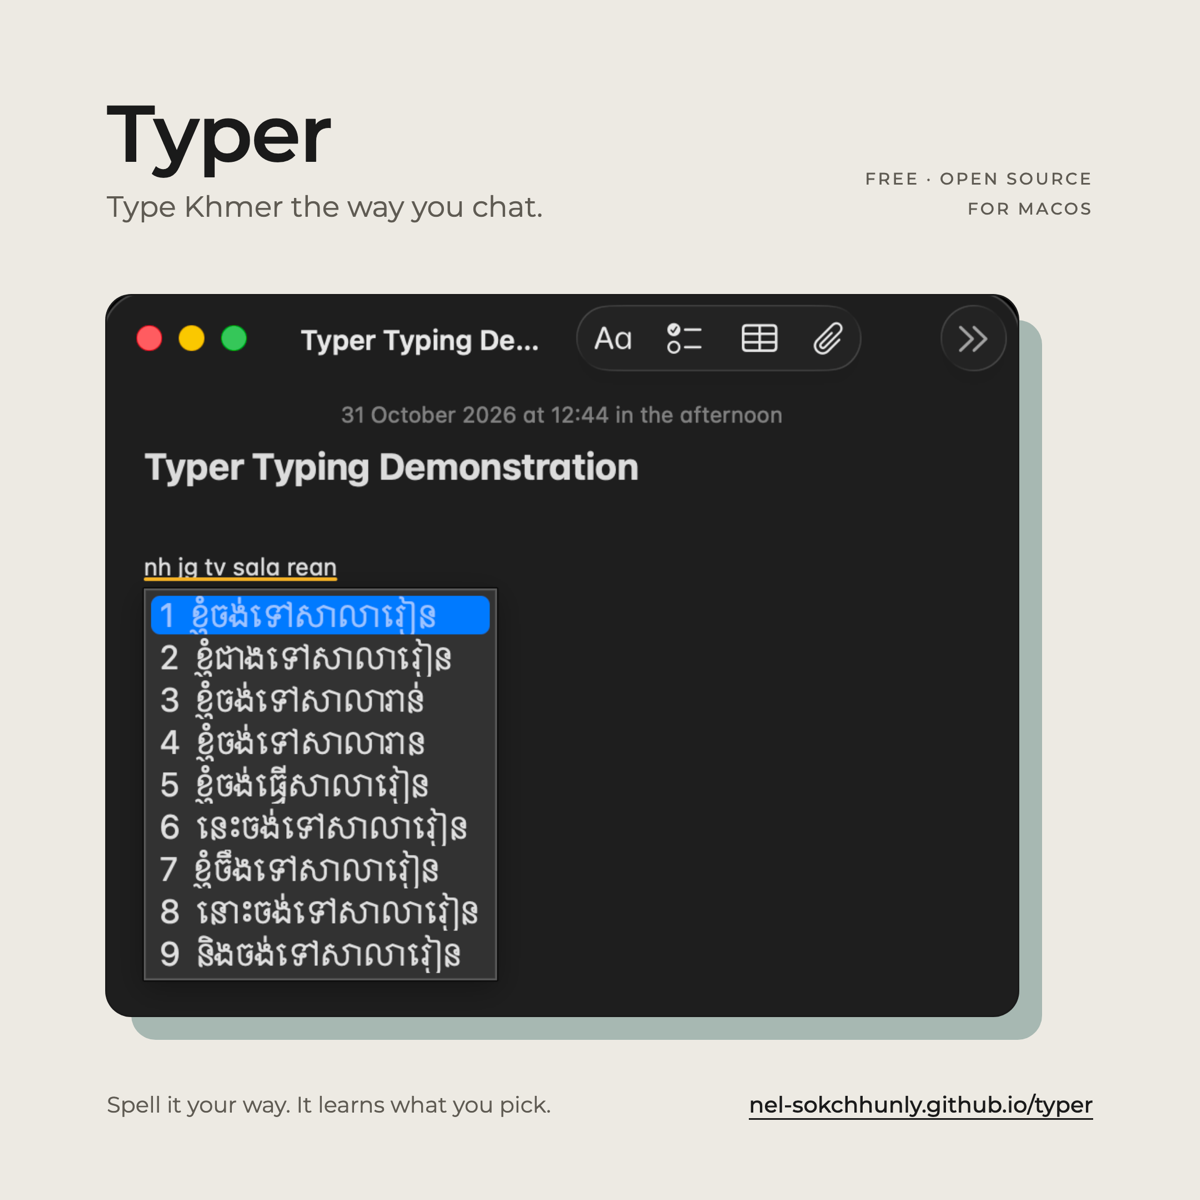
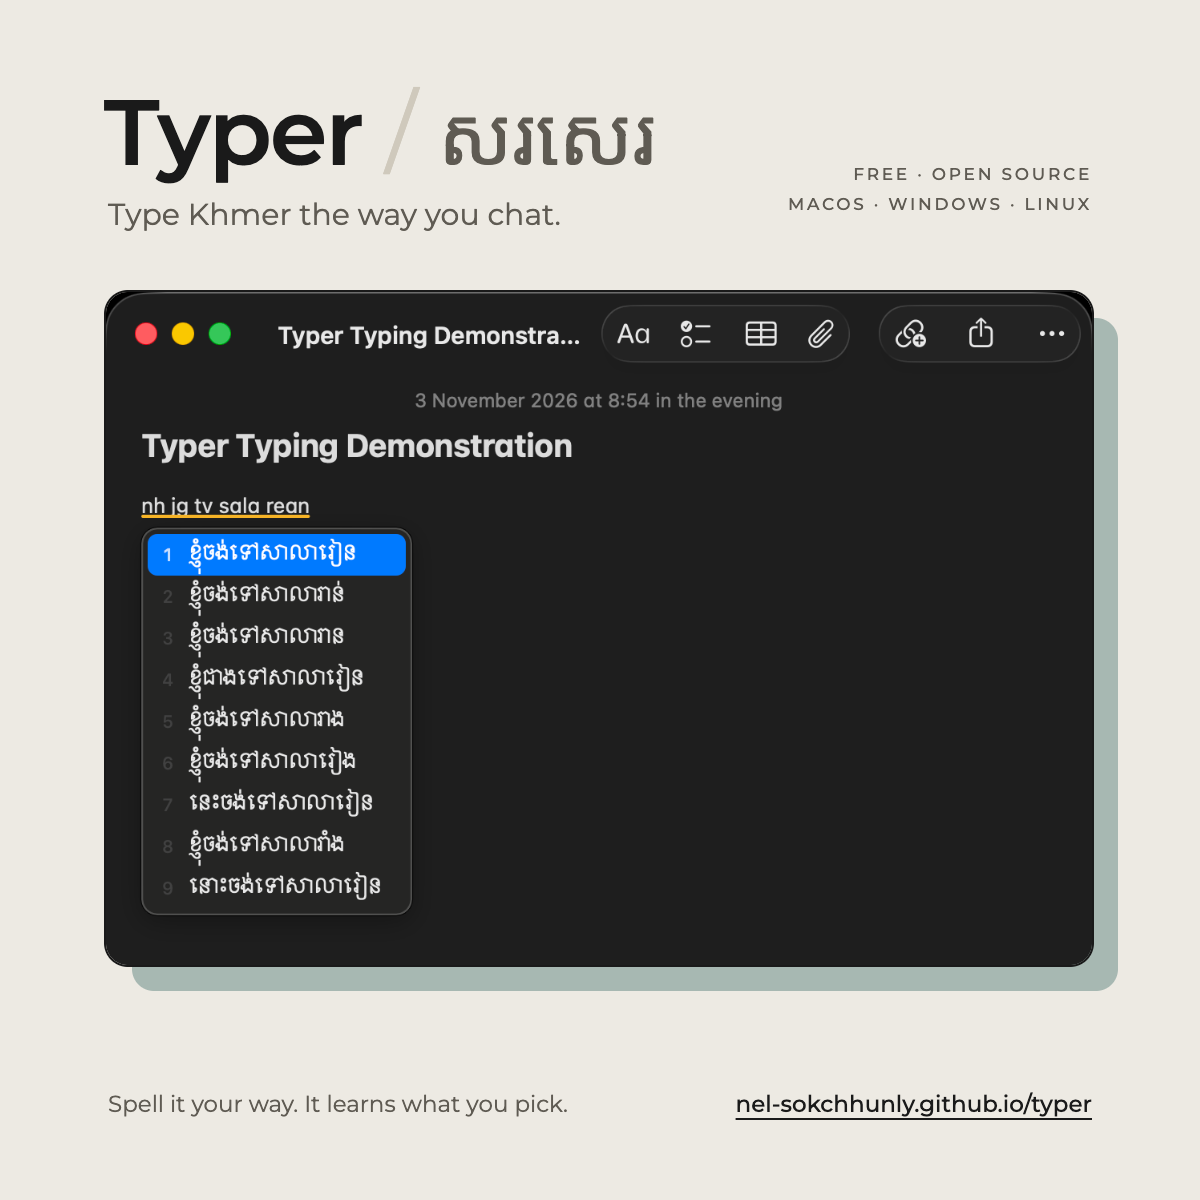
docs: new demo screenshot; poster rebuilt with name and all platforms
hero.png is a fresh Notes capture of the restyled candidate panel. social.png
is now rendered from docs/img/poster.html (command inside), reading
Typer / សរសេរ and macOS · Windows · Linux.

diff --git a/docs/img/poster.html b/docs/img/poster.html
@@ -1,0 +1,33 @@
+<!doctype html>
+<!-- Source of social.png (link-preview poster). Render from the repo root:
+  "/Applications/Google Chrome.app/Contents/MacOS/Google Chrome" --headless --hide-scrollbars \
+    --window-size=1200,1200 --virtual-time-budget=5000 --screenshot=docs/img/social.png docs/img/poster.html
+-->
+<html lang="en">
+<head>
+<meta charset="utf-8">
+<link href="https://fonts.googleapis.com/css2?family=Montserrat:wght@400;500;600&family=Noto+Sans+Khmer:wght@400&display=swap" rel="stylesheet">
+<style>
+  html, body { margin: 0; width: 1200px; height: 1200px; overflow: hidden; }
+  body { background: #edeae3; color: #1a1a1a; font-family: Montserrat, sans-serif; position: relative; }
+  .title { position: absolute; left: 104px; top: 82px; font-size: 92px; font-weight: 600; letter-spacing: -0.02em; line-height: 1.1; }
+  .title .sep { font-weight: 300; color: #cfc9bc; }
+  .title .km { font-family: "Noto Sans Khmer", sans-serif; font-weight: 400; color: #5f5b53; letter-spacing: 0; font-size: 80px; }
+  .sub { position: absolute; left: 108px; top: 196px; font-size: 30px; color: #5f5b53; }
+  .meta { position: absolute; right: 108px; top: 160px; text-align: right; font-size: 17px; font-weight: 500;
+          letter-spacing: .16em; line-height: 1.75; color: #5f5b53; text-transform: uppercase; }
+  .shot { position: absolute; left: 106px; top: 292px; width: 986px; }
+  .shot::before { content: ""; position: absolute; inset: 0; transform: translate(26px, 26px); background: #a7b8b2; border-radius: 22px; }
+  .shot img { position: relative; display: block; width: 100%; border-radius: 22px; box-shadow: 0 0 0 2px #1a1a1a; }
+  .foot { position: absolute; left: 108px; right: 108px; bottom: 82px; display: flex; justify-content: space-between; align-items: baseline; font-size: 23px; color: #5f5b53; }
+  .foot b { color: #1a1a1a; font-weight: 500; text-decoration: underline; text-decoration-thickness: 2px; text-underline-offset: 6px; }
+</style>
+</head>
+<body>
+  <div class="title">Typer <span class="sep">/</span> <span class="km" lang="km">សរសេរ</span></div>
+  <div class="sub">Type Khmer the way you chat.</div>
+  <div class="meta">Free · open source<br>macOS · Windows · Linux</div>
+  <div class="shot"><img src="hero.png" alt=""></div>
+  <div class="foot"><span>Spell it your way. It learns what you pick.</span><b>nel-sokchhunly.github.io/typer</b></div>
+</body>
+</html>
